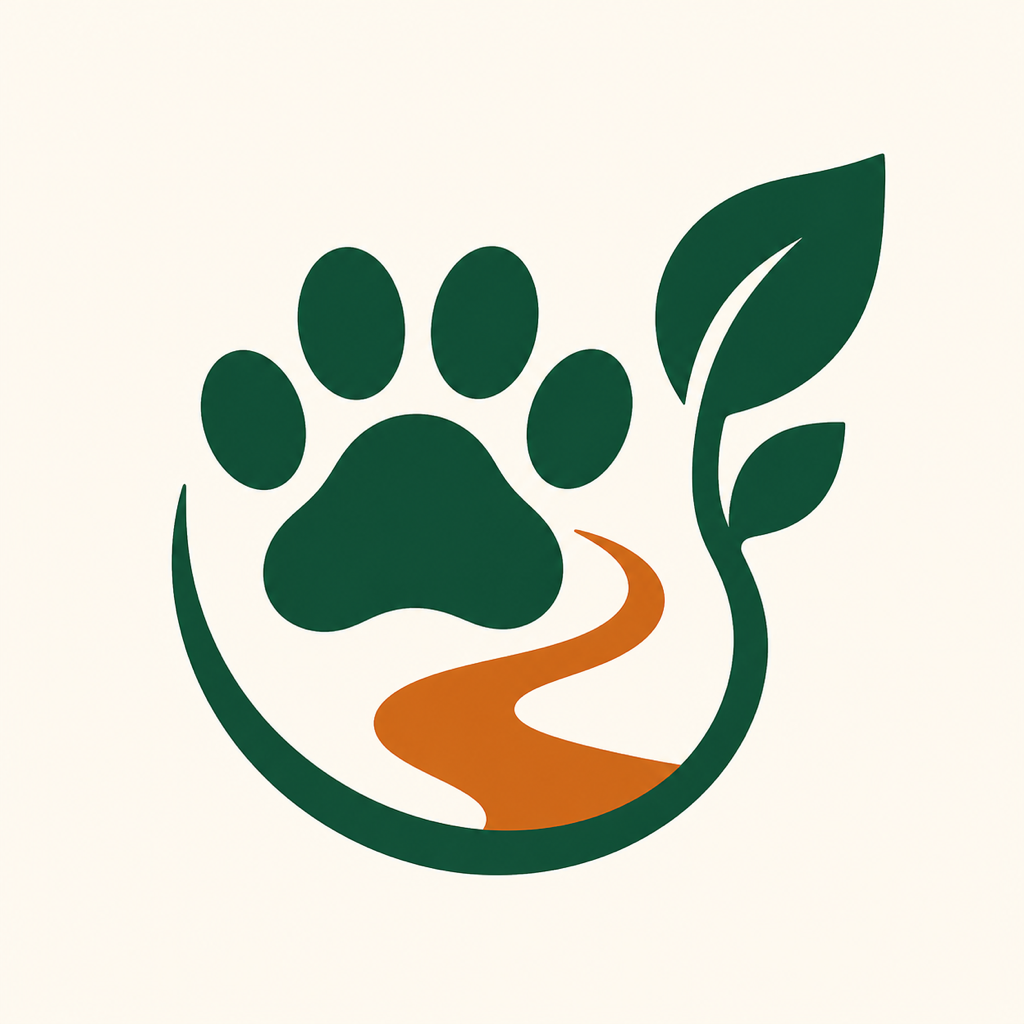
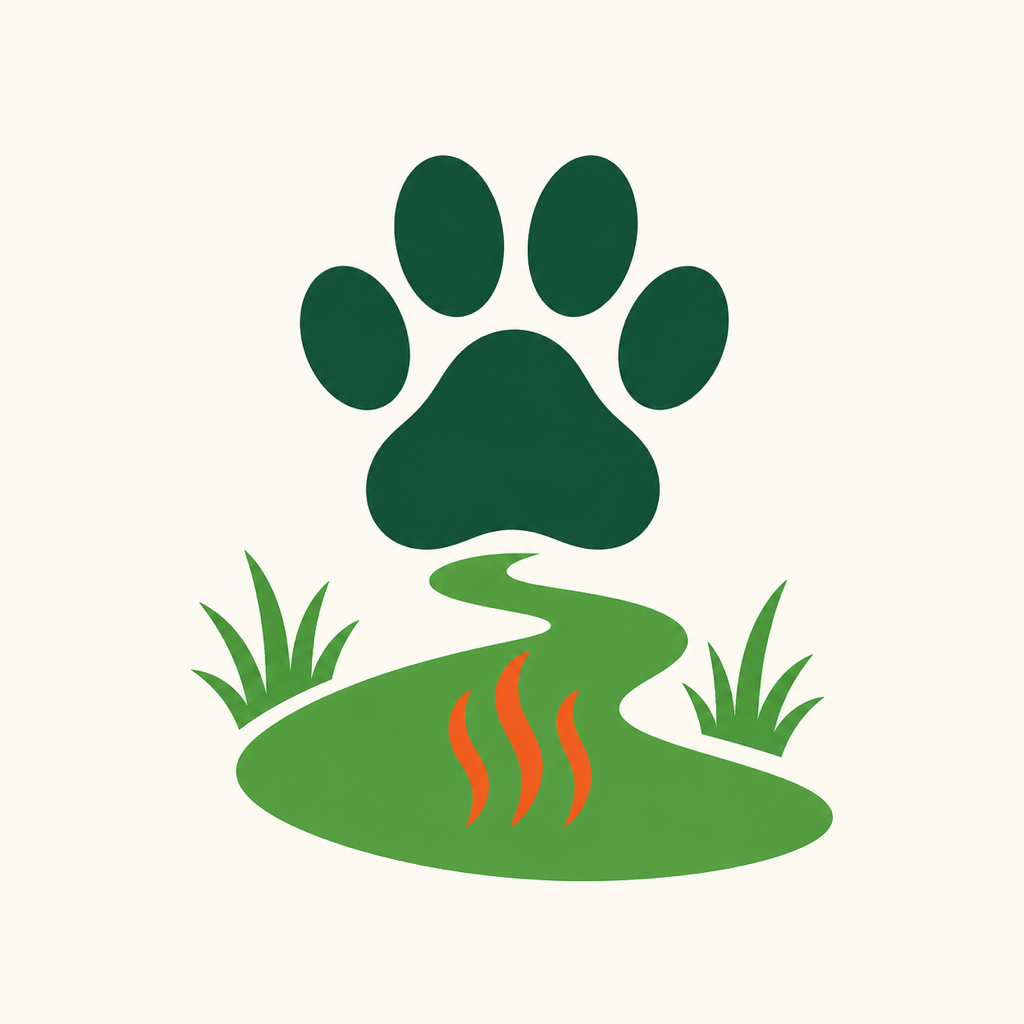
Refine PawSafe walking UX and heat trail branding

Changed region(s): [[0.1562, 0.125, 0.875, 0.875]]

diff --git a/pawsafe-mobile/app/index.tsx b/pawsafe-mobile/app/index.tsx
@@ -7,7 +7,6 @@ import { ScreenContainer } from '@/src/components/common/ScreenContainer';
 import { ScreenHeader } from '@/src/components/common/ScreenHeader';
 import { CurrentLocationButton } from '@/src/features/walk/components/CurrentLocationButton';
 import { DepartureTimePicker } from '@/src/features/walk/components/DepartureTimePicker';
-import { DemoNotice } from '@/src/features/walk/components/DemoNotice';
 import { PlaceSearchField } from '@/src/features/walk/components/PlaceSearchField';
 import { WalkModeSelector } from '@/src/features/walk/components/WalkModeSelector';
 import { toLocalIsoWithOffset } from '@/src/features/walk/utils/dateTime';
@@ -43,20 +42,19 @@ export default function InputScreen() {
     <ScreenContainer>
       <KeyboardAvoidingView style={styles.flex} behavior={Platform.OS === 'ios' ? 'padding' : undefined}>
         <ScrollView contentContainerStyle={styles.content} keyboardShouldPersistTaps="handled" automaticallyAdjustKeyboardInsets>
-          <ScreenHeader eyebrow="PawSafe" title="산책 조건을 선택해 주세요" description="일반 경로와 상대 Heat Cost를 낮춘 예시 경로를 같은 조건에서 비교합니다." />
-          <DemoNotice />
-          <View style={styles.section}>
-            <Text style={styles.step}>1 · 장소</Text>
+          <ScreenHeader brand title="우리 강아지에게 걷기 좋은 길을 찾아볼까요?" description="노면온도와 그늘 정보를 비교해 발바닥 부담이 적은 길을 찾아요." />
+          <View style={styles.sectionCard}>
+            <Text style={styles.step}>1 · 어디로 갈까요?</Text>
             <PlaceSearchField label="출발지" field="origin" selected={form.origin} onSelect={(place) => { setValidationError(null); dispatch({ type: 'SET_PLACE', field: 'origin', place }); }} />
-            {!form.origin ? <CurrentLocationButton onSelect={(place) => dispatch({ type: 'SET_PLACE', field: 'origin', place })} /> : null}
+            {!form.origin ? <CurrentLocationButton onSelect={(place) => { setValidationError(null); dispatch({ type: 'SET_PLACE', field: 'origin', place }); }} /> : null}
             <PlaceSearchField label="목적지" field="destination" selected={form.destination} onSelect={(place) => { setValidationError(null); dispatch({ type: 'SET_PLACE', field: 'destination', place }); }} />
           </View>
-          <View style={styles.section}>
-            <Text style={styles.step}>2 · 시간</Text>
+          <View style={styles.sectionCard}>
+            <Text style={styles.step}>2 · 언제 걸을까요?</Text>
             <DepartureTimePicker value={form.departureAt} onChange={(value) => { setValidationError(null); dispatch({ type: 'SET_DEPARTURE', value }); }} />
           </View>
-          <View style={styles.section}>
-            <Text style={styles.step}>3 · 비교 기준</Text>
+          <View style={styles.sectionCard}>
+            <Text style={styles.step}>3 · 산책 스타일</Text>
             <WalkModeSelector value={form.walkMode} onChange={(value) => dispatch({ type: 'SET_WALK_MODE', value })} />
           </View>
           {validationError ? <Notice tone="error" accessibilityLiveRegion="assertive">{validationError}</Notice> : null}
@@ -65,7 +63,7 @@ export default function InputScreen() {
             disabled={!form.origin || !form.destination}
             accessibilityHint="선택한 조건으로 경로 비교를 요청합니다."
             onPress={submit}
-          >경로 분석하기</AppButton>
+          >안전한 산책길 찾기</AppButton>
           <Text style={styles.privacy}>현재 위치는 출발지 선택에만 일시적으로 사용하며 기기에 영구 저장하지 않습니다.</Text>
         </ScrollView>
       </KeyboardAvoidingView>
@@ -74,6 +72,6 @@ export default function InputScreen() {
 }
 const styles = StyleSheet.create({
   flex: { flex: 1 }, content: { padding: spacing.lg, paddingBottom: spacing.xxl, gap: spacing.xl },
-  section: { gap: spacing.md }, step: { ...typography.caption, color: colors.greenStrong, fontWeight: '700' },
+  sectionCard: { gap: spacing.md, padding: spacing.lg, borderRadius: 20, borderWidth: 1, borderColor: colors.border, backgroundColor: colors.surface }, step: { ...typography.caption, color: colors.greenStrong, fontWeight: '700' },
   privacy: { ...typography.caption, color: colors.mutedText, textAlign: 'center' },
 });

diff --git a/pawsafe-mobile/src/features/walk/components/PlaceSearchField.tsx b/pawsafe-mobile/src/features/walk/components/PlaceSearchField.tsx
@@ -2,7 +2,9 @@ import { ActivityIndicator, Pressable, StyleSheet, Text, View } from 'react-nati
 import type { Place, PlaceSearchResult } from '@/src/api/contracts';
 import { AppTextField } from '@/src/components/common/AppTextField';
 import { Notice } from '@/src/components/common/Notice';
+import { env } from '@/src/config/env';
 import { usePlaceSearch } from '@/src/features/walk/hooks/usePlaceSearch';
+import { mockPlaces } from '@/src/mocks/places';
 import { colors, spacing, typography } from '@/src/theme/theme';
 
 export function PlaceSearchField({ label, field, selected, onSelect }: {
@@ -13,6 +15,9 @@ export function PlaceSearchField({ label, field, selected, onSelect }: {
 }) {
   const { query, setQuery, results, isLoading, error, minimumLength } = usePlaceSearch();
   const prefix = field === 'origin' ? 'origin' : 'destination';
+  const quickPlaces = env.placeSearchMode === 'mock'
+    ? mockPlaces.filter((place) => field === 'origin' ? place.id === 'place_home' : ['place_mangwon_park', 'place_mangwon_market'].includes(place.id))
+    : [];
   if (selected) {
     const selectedCoverage = 'is_in_coverage' in selected ? Boolean(selected.is_in_coverage) : null;
     return (
@@ -41,9 +46,15 @@ export function PlaceSearchField({ label, field, selected, onSelect }: {
         aria-labelledby={`${prefix}-label`}
         value={query}
         onChangeText={setQuery}
-        placeholder="장소 이름이나 주소 검색"
+        placeholder="장소 이름만 입력해도 돼요"
       />
-      {query.trim().length > 0 && query.trim().length < minimumLength ? <Text style={styles.help}>두 글자 이상 입력해 주세요.</Text> : null}
+      {query.trim().length === 0 && quickPlaces.length > 0 ? (
+        <View style={styles.quickRow} accessibilityLabel={`${label} 빠른 선택`}>
+          <Text style={styles.quickLabel}>빠른 선택</Text>
+          {quickPlaces.map((place) => <Pressable key={place.id} testID={`${prefix}-quick-${place.id}`} accessibilityRole="button" style={styles.quickChip} onPress={() => { onSelect(place); setQuery(''); }}><Text style={styles.quickChipText}>{place.name}</Text></Pressable>)}
+        </View>
+      ) : null}
+      {query.trim().length > 0 && query.trim().length < minimumLength ? <Text style={styles.help}>장소 이름 일부만 입력해 주세요.</Text> : null}
       {isLoading ? <View accessibilityLiveRegion="polite" style={styles.searching}><ActivityIndicator size="small" color={colors.green} /><Text style={styles.help}>장소 검색 중</Text></View> : null}
       {error ? <Notice tone="error" accessibilityLiveRegion="assertive">장소를 불러오지 못했습니다. 잠시 후 다시 입력해 주세요.</Notice> : null}
       {!isLoading && !error && query.trim().length >= minimumLength && results.length === 0 ? <Text accessibilityLiveRegion="polite" style={styles.help}>검색 결과가 없습니다.</Text> : null}
@@ -80,6 +91,10 @@ const styles = StyleSheet.create({
   clear: { minHeight: 44, justifyContent: 'center', paddingHorizontal: spacing.sm },
   clearText: { ...typography.caption, color: colors.greenStrong, fontWeight: '700' },
   help: { ...typography.caption, color: colors.mutedText },
+  quickRow: { flexDirection: 'row', alignItems: 'center', flexWrap: 'wrap', gap: spacing.sm },
+  quickLabel: { ...typography.caption, color: colors.mutedText, marginRight: spacing.xs },
+  quickChip: { minHeight: 36, justifyContent: 'center', borderRadius: 18, paddingHorizontal: spacing.md, backgroundColor: colors.greenSoft, borderWidth: 1, borderColor: '#CDE8D1' },
+  quickChipText: { ...typography.caption, color: colors.greenStrong, fontWeight: '700' },
   searching: { flexDirection: 'row', alignItems: 'center', gap: spacing.sm },
   results: { backgroundColor: colors.surface, borderWidth: 1, borderColor: colors.border, borderRadius: 12, overflow: 'hidden' },
   result: { minHeight: 62, flexDirection: 'row', alignItems: 'center', gap: spacing.sm, padding: spacing.md, borderBottomWidth: StyleSheet.hairlineWidth, borderBottomColor: colors.border },

diff --git a/pawsafe-mobile/src/features/walk/components/WalkModeSelector.tsx b/pawsafe-mobile/src/features/walk/components/WalkModeSelector.tsx
@@ -2,10 +2,9 @@ import { Pressable, StyleSheet, Text, View } from 'react-native';
 import type { WalkMode } from '@/src/api/contracts';
 import { colors, spacing, typography } from '@/src/theme/theme';
 
-const modes: { id: WalkMode; title: string; description: string }[] = [
+const modes: { id: WalkMode; title: string; description: string; recommended?: boolean }[] = [
   { id: 'fast', title: '빠른 산책', description: '이동 거리를 우선해 경로를 비교합니다.' },
-  { id: 'balanced', title: '균형 산책', description: '거리와 상대 열노출을 함께 고려합니다.' },
-  { id: 'cool', title: '시원한 산책', description: '상대 열노출 감소를 우선해 경로를 비교합니다.' },
+  { id: 'cool', title: '시원한 산책', description: '노면온도와 상대 열노출을 낮추는 경로를 우선합니다.', recommended: true },
 ];
 
 export function WalkModeSelector({ value, onChange }: { value: WalkMode; onChange: (mode: WalkMode) => void }) {
@@ -25,7 +24,7 @@ export function WalkModeSelector({ value, onChange }: { value: WalkMode; onChang
             onPress={() => onChange(mode.id)}
           >
             <View style={[styles.radio, selected && styles.radioSelected]}><View style={selected ? styles.dot : undefined} /></View>
-            <View style={styles.copy}><Text style={styles.title}>{mode.title}</Text><Text style={styles.description}>{mode.description}</Text></View>
+            <View style={styles.copy}><View style={styles.titleRow}><Text style={styles.title}>{mode.title}</Text>{mode.recommended ? <Text style={styles.badge}>추천</Text> : null}</View><Text style={styles.description}>{mode.description}</Text></View>
           </Pressable>
         );
       })}
@@ -38,5 +37,5 @@ const styles = StyleSheet.create({
   selected: { borderColor: colors.green, backgroundColor: colors.greenSoft }, pressed: { opacity: 0.78 },
   radio: { width: 22, height: 22, borderRadius: 11, borderWidth: 2, borderColor: colors.mutedText, alignItems: 'center', justifyContent: 'center' },
   radioSelected: { borderColor: colors.greenStrong }, dot: { width: 10, height: 10, borderRadius: 5, backgroundColor: colors.greenStrong },
-  copy: { flex: 1, gap: 2 }, title: { ...typography.body, color: colors.text, fontWeight: '700' }, description: { ...typography.caption, color: colors.mutedText },
+  copy: { flex: 1, gap: 2 }, titleRow: { flexDirection: 'row', alignItems: 'center', gap: spacing.sm }, title: { ...typography.body, color: colors.text, fontWeight: '700' }, description: { ...typography.caption, color: colors.mutedText }, badge: { ...typography.caption, color: colors.white, backgroundColor: colors.greenStrong, borderRadius: 10, paddingHorizontal: spacing.sm, paddingVertical: 2, fontWeight: '700' },
 });

diff --git a/pawsafe-mobile/src/mocks/routeScenarios.ts b/pawsafe-mobile/src/mocks/routeScenarios.ts
@@ -6,7 +6,7 @@ const shortestCoordinates: GeoJsonCoordinate[] = [
 const coolCoordinates: GeoJsonCoordinate[] = [
   [126.91, 37.55], [126.909, 37.553], [126.906, 37.5555], [126.902, 37.5565], [126.9, 37.555],
 ];
-const balancedCoordinates: GeoJsonCoordinate[] = [
+const noImprovementCoordinates: GeoJsonCoordinate[] = [
   [126.91, 37.55], [126.908, 37.552], [126.905, 37.554], [126.902, 37.555], [126.9, 37.555],
 ];
 
@@ -92,20 +92,17 @@ function buildResponse(
   };
 }
 
-export type DemoSuccessScenario = 'cool-improvement' | 'fast-near-shortest' | 'balanced-tradeoff' | 'same-route' | 'no-improvement';
+export type DemoSuccessScenario = 'cool-improvement' | 'fast-near-shortest' | 'same-route' | 'no-improvement';
 
 export function getMockRouteScenario(request: RouteAnalysisRequest): RouteAnalysisResponse {
   if (request.destination.id === 'scenario_same_route') {
     return buildResponse(request, 'same-route', { ...shortest, route_id: 'pawsafe_same', label: 'PawSafe 예시 경로' }, true);
   }
   if (request.destination.id === 'scenario_no_improvement') {
-    return buildResponse(request, 'no-improvement', route('pawsafe_no_change', balancedCoordinates, 1290, 18, 74, 0.25, 12));
+    return buildResponse(request, 'no-improvement', route('pawsafe_no_change', noImprovementCoordinates, 1290, 18, 74, 0.25, 12));
   }
   if (request.walk_mode === 'fast') {
     return buildResponse(request, 'fast-near-shortest', route('pawsafe_fast', shortestCoordinates, 1220, 17, 68, 0.27, 12));
-  }
-  if (request.walk_mode === 'balanced') {
-    return buildResponse(request, 'balanced-tradeoff', route('pawsafe_balanced', balancedCoordinates, 1300, 19, 53, 0.44, 8));
   }
   return buildResponse(request, 'cool-improvement', route('pawsafe_cool', coolCoordinates, 1400, 20, 41, 0.59, 4));
 }

diff --git a/pawsafe-mobile/src/components/common/ScreenHeader.tsx b/pawsafe-mobile/src/components/common/ScreenHeader.tsx
@@ -1,10 +1,10 @@
-import { StyleSheet, Text, View } from 'react-native';
+import { Image, StyleSheet, Text, View } from 'react-native';
 import { colors, spacing, typography } from '@/src/theme/theme';
 
-export function ScreenHeader({ title, description, eyebrow }: { title: string; description?: string; eyebrow?: string }) {
+export function ScreenHeader({ title, description, eyebrow, brand = false }: { title: string; description?: string; eyebrow?: string; brand?: boolean }) {
   return (
     <View accessible accessibilityRole="header" style={styles.container}>
-      {eyebrow ? <Text style={styles.eyebrow}>{eyebrow}</Text> : null}
+      {brand ? <View style={styles.brandRow}><Image accessibilityIgnoresInvertColors source={require('../../../assets/brand/pawsafe-mark.png')} style={styles.brandMark} /><Text style={styles.brandName}>PawSafe</Text></View> : eyebrow ? <Text style={styles.eyebrow}>{eyebrow}</Text> : null}
       <Text style={styles.title}>{title}</Text>
       {description ? <Text style={styles.description}>{description}</Text> : null}
     </View>
@@ -12,6 +12,9 @@ export function ScreenHeader({ title, description, eyebrow }: { title: string; d
 }
 const styles = StyleSheet.create({
   container: { gap: spacing.sm },
+  brandRow: { flexDirection: 'row', alignItems: 'center', gap: spacing.sm, marginBottom: spacing.xs },
+  brandMark: { width: 34, height: 34, borderRadius: 10 },
+  brandName: { fontSize: 22, lineHeight: 28, fontWeight: '800', color: colors.greenStrong },
   eyebrow: { ...typography.caption, color: colors.greenStrong, fontWeight: '700' },
   title: { ...typography.title, color: colors.text },
   description: { ...typography.body, color: colors.mutedText },

diff --git a/pawsafe-mobile/src/features/walk/components/ResultHeadline.tsx b/pawsafe-mobile/src/features/walk/components/ResultHeadline.tsx
@@ -4,6 +4,6 @@ import { getResultHeadline } from '@/src/features/walk/utils/resultCopy';
 import { colors, spacing, typography } from '@/src/theme/theme';
 
 export function ResultHeadline({ result }: { result: RouteAnalysisResponse }) {
-  return <View accessible accessibilityRole="header" style={styles.container}><Text style={styles.label}>경로 비교 결과</Text><Text style={styles.headline}>{getResultHeadline(result)}</Text></View>;
+  return <View accessible accessibilityRole="header" style={styles.container}><Text style={styles.badge}>PAWSAFE RECOMMENDATION</Text><Text style={styles.label}>안전한 산책길을 찾았어요</Text><Text style={styles.headline}>{getResultHeadline(result)}</Text></View>;
 }
-const styles = StyleSheet.create({ container: { gap: spacing.xs }, label: { ...typography.caption, color: colors.greenStrong, fontWeight: '700' }, headline: { ...typography.heading, color: colors.text } });
+const styles = StyleSheet.create({ container: { gap: spacing.xs }, badge: { alignSelf: 'flex-start', ...typography.caption, color: colors.white, backgroundColor: colors.greenStrong, borderRadius: 10, paddingHorizontal: spacing.sm, paddingVertical: 3, fontWeight: '800', letterSpacing: 0.2 }, label: { ...typography.caption, color: colors.greenStrong, fontWeight: '700' }, headline: { ...typography.heading, color: colors.text } });

diff --git a/pawsafe-mobile/tests/components/WalkModeSelector.test.tsx b/pawsafe-mobile/tests/components/WalkModeSelector.test.tsx
@@ -4,12 +4,12 @@ import { WalkModeSelector } from '@/src/features/walk/components/WalkModeSelecto
 describe('WalkModeSelector', () => {
   it('exposes radio selection and reports the selected walk mode', async () => {
     const onChange = jest.fn();
-    const screen = await render(<WalkModeSelector value="balanced" onChange={onChange} />);
+    const screen = await render(<WalkModeSelector value="cool" onChange={onChange} />);
 
-    expect(screen.getByTestId('walk-mode-balanced').props.accessibilityState).toMatchObject({ selected: true, checked: true });
-    expect(screen.getByTestId('walk-mode-cool').props.accessibilityState).toMatchObject({ selected: false, checked: false });
+    expect(screen.getByTestId('walk-mode-cool').props.accessibilityState).toMatchObject({ selected: true, checked: true });
+    expect(screen.getByTestId('walk-mode-fast').props.accessibilityState).toMatchObject({ selected: false, checked: false });
 
-    await fireEvent.press(screen.getByTestId('walk-mode-cool'));
-    expect(onChange).toHaveBeenCalledWith('cool');
+    await fireEvent.press(screen.getByTestId('walk-mode-fast'));
+    expect(onChange).toHaveBeenCalledWith('fast');
   });
 });

diff --git a/pawsafe-mobile/app/segments.tsx b/pawsafe-mobile/app/segments.tsx
@@ -26,7 +26,7 @@ export default function SegmentsScreen() {
   return (
     <ScreenContainer>
       <ScrollView contentContainerStyle={styles.content} keyboardShouldPersistTaps="handled">
-        <ScreenHeader eyebrow="2 / 3" title="구간별 상대 열노출" description="지도나 아래 구간 목록을 눌러 MVP 예시 값을 확인하세요." />
+        <ScreenHeader eyebrow="열환경 분석 완료" title="상대적으로 열노출이 낮은 길을 찾았어요" description="지도나 아래 구간을 눌러 노면온도와 그늘 정보를 확인해 보세요." />
         {result.is_demo ? <DemoNotice /> : null}
         <PawSafeMap origin={request.origin} destination={request.destination} pawsafe={result.pawsafe} segments={result.heat_segments} selectedSegmentId={selectedId} onSegmentPress={selectSegment} showRouteLegend={false} showSegmentLegend />
         <RelativeHeatNotice />

diff --git a/pawsafe-mobile/app/comparison.tsx b/pawsafe-mobile/app/comparison.tsx
@@ -17,7 +17,7 @@ export default function ComparisonScreen() {
   const { state, dispatch } = useWalkFlow();
   const resultState = state.status === 'comparison' || state.status === 'segmentReview' ? state : null;
   useFocusEffect(useCallback(() => {
-    AccessibilityInfo.announceForAccessibility('일반 경로와 PawSafe 경로 비교 화면');
+    AccessibilityInfo.announceForAccessibility('일반 경로와 PawSafe 추천 경로 비교 화면');
     if (state.status === 'segmentReview') dispatch({ type: 'SHOW_COMPARISON' });
   }, [dispatch, state.status]));
   if (!resultState) return <ScreenContainer style={styles.missing}><Text style={styles.missingText}>비교할 경로 결과가 없습니다.</Text><AppButton onPress={() => { dispatch({ type: 'RESET' }); router.replace('/'); }}>조건 입력으로 이동</AppButton></ScreenContainer>;

diff --git a/pawsafe-mobile/src/features/walk/components/AnalysisStatus.tsx b/pawsafe-mobile/src/features/walk/components/AnalysisStatus.tsx
@@ -1,7 +1,7 @@
 import { LoadingState } from '@/src/components/common/LoadingState';
 export function AnalysisStatus({ isMock }: { isMock: boolean }) {
   return <LoadingState
-    title={isMock ? 'MVP 예시 경로를 준비하고 있어요' : '선택한 조건으로 경로를 분석하고 있어요'}
-    description={isMock ? '앱 흐름 검증을 위한 데모 데이터를 불러오는 중입니다.' : '경로 정보를 준비하는 동안 잠시 기다려 주세요.'}
+    title={isMock ? '우리 강아지가 걷기 좋은 길을 찾고 있어요' : '안전한 산책길을 찾고 있어요'}
+    description={isMock ? '노면온도와 그늘 정보를 확인하는 중이에요. 잠시만 기다려 주세요.' : '선택한 조건에 맞는 경로를 준비하고 있어요.'}
   />;
 }

diff --git a/pawsafe-mobile/tests/unit/validation.test.ts b/pawsafe-mobile/tests/unit/validation.test.ts
@@ -16,7 +16,7 @@ describe('walk form validation', () => {
   it('rejects identical places by id or coordinate', () => {
     expect(isSamePlace(origin, { ...destination, id: origin.id })).toBe(true);
     expect(isSamePlace(origin, { ...destination, lat: origin.lat, lng: origin.lng })).toBe(true);
-    expect(validateWalkForm({ origin, destination: { ...destination, id: origin.id }, departureAt: new Date(now.getTime() + 60_000), walkMode: 'balanced' }, now))
+    expect(validateWalkForm({ origin, destination: { ...destination, id: origin.id }, departureAt: new Date(now.getTime() + 60_000), walkMode: 'cool' }, now))
       .toBe('출발지와 목적지를 다르게 선택해 주세요.');
   });
 

diff --git a/pawsafe-mobile/src/components/common/AppButton.tsx b/pawsafe-mobile/src/components/common/AppButton.tsx
@@ -34,7 +34,7 @@ export function AppButton({ children, variant = 'primary', loading, disabled, fu
 }
 
 const styles = StyleSheet.create({
-  base: { minHeight: 48, borderRadius: 12, paddingHorizontal: spacing.lg, paddingVertical: spacing.md, alignItems: 'center', justifyContent: 'center', borderWidth: 1 },
+  base: { minHeight: 54, borderRadius: 28, paddingHorizontal: spacing.lg, paddingVertical: spacing.md, alignItems: 'center', justifyContent: 'center', borderWidth: 1 },
   fullWidth: { width: '100%' },
   primary: { backgroundColor: colors.greenStrong, borderColor: colors.greenStrong },
   secondary: { backgroundColor: colors.surface, borderColor: colors.green },
